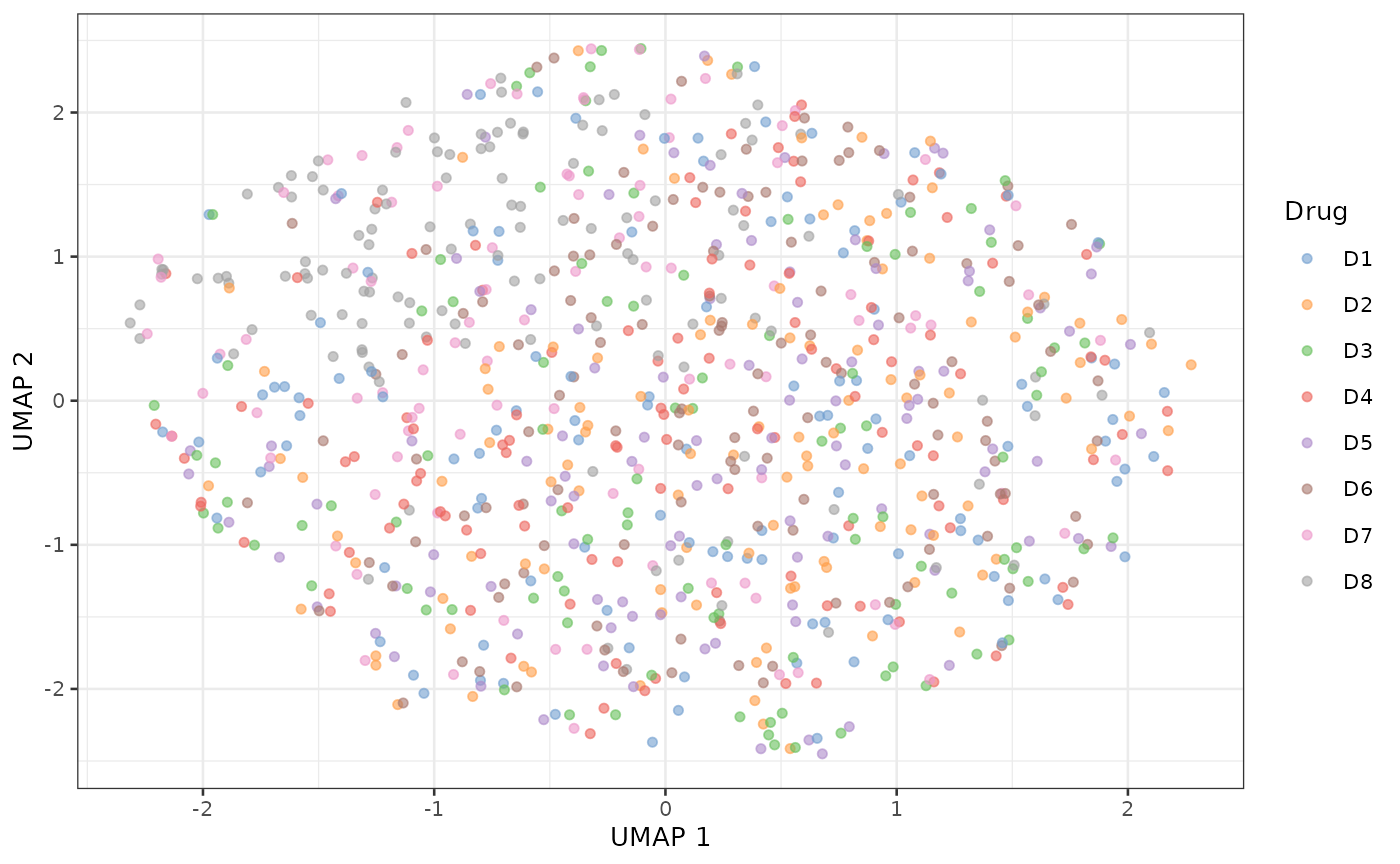
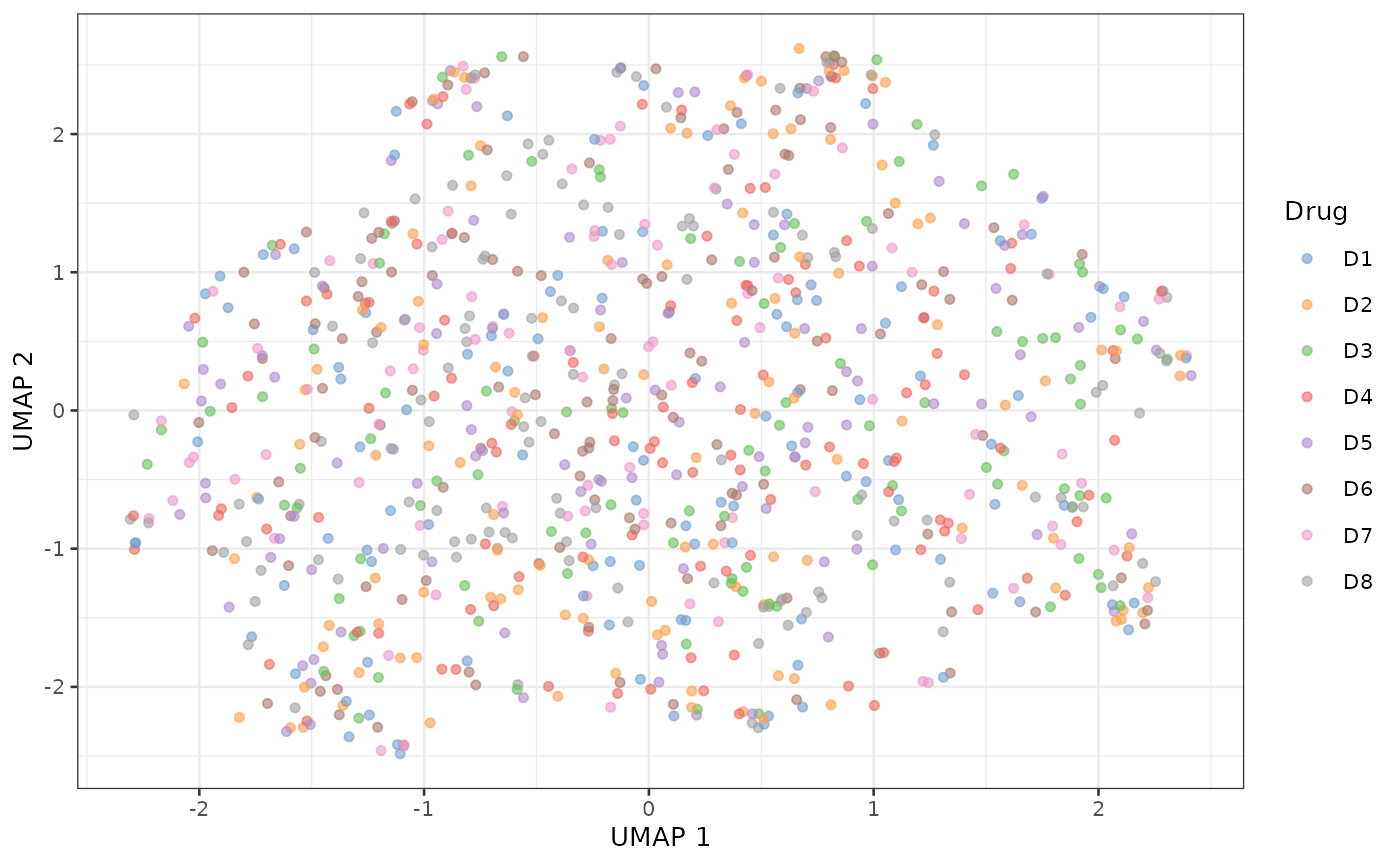
Deploying to gh-pages from @ ChristofSeiler/cellpaintr@51d60892bdf07ef285071fab969bb27a7db065ef 🚀

diff --git a/reference/transformScale.html b/reference/transformScale.html
@@ -1,0 +1,94 @@
+<!DOCTYPE html>
+<!-- Generated by pkgdown: do not edit by hand --><html lang="en"><head><meta http-equiv="Content-Type" content="text/html; charset=UTF-8"><meta charset="utf-8"><meta http-equiv="X-UA-Compatible" content="IE=edge"><meta name="viewport" content="width=device-width, initial-scale=1, shrink-to-fit=no"><title>Transform, center, and scale features — transformScale • cellpaintr</title><script src="../deps/jquery-3.6.0/jquery-3.6.0.min.js"></script><meta name="viewport" content="width=device-width, initial-scale=1, shrink-to-fit=no"><link href="../deps/bootstrap-5.3.8/bootstrap.min.css" rel="stylesheet"><script src="../deps/bootstrap-5.3.8/bootstrap.bundle.min.js"></script><link href="../deps/font-awesome-6.5.2/css/all.min.css" rel="stylesheet"><link href="../deps/font-awesome-6.5.2/css/v4-shims.min.css" rel="stylesheet"><script src="../deps/headroom-0.11.0/headroom.min.js"></script><script src="../deps/headroom-0.11.0/jQuery.headroom.min.js"></script><script src="../deps/bootstrap-toc-1.0.1/bootstrap-toc.min.js"></script><script src="../deps/clipboard.js-2.0.11/clipboard.min.js"></script><script src="../deps/search-1.0.0/autocomplete.jquery.min.js"></script><script src="../deps/search-1.0.0/fuse.min.js"></script><script src="../deps/search-1.0.0/mark.min.js"></script><!-- pkgdown --><script src="../pkgdown.js"></script><meta property="og:title" content="Transform, center, and scale features — transformScale"><meta name="description" content="Transform, center, and scale features"><meta property="og:description" content="Transform, center, and scale features"></head><body>
+    <a href="#main" class="visually-hidden-focusable">Skip to contents</a>
+
+
+    <nav class="navbar navbar-expand-lg fixed-top bg-light" data-bs-theme="light" aria-label="Site navigation"><div class="container">
+
+    <a class="navbar-brand me-2" href="../index.html">cellpaintr</a>
+
+    <small class="nav-text text-muted me-auto" data-bs-toggle="tooltip" data-bs-placement="bottom" title="">0.99.0</small>
+
+
+    <button class="navbar-toggler" type="button" data-bs-toggle="collapse" data-bs-target="#navbar" aria-controls="navbar" aria-expanded="false" aria-label="Toggle navigation">
+      <span class="navbar-toggler-icon"></span>
+    </button>
+
+    <div id="navbar" class="collapse navbar-collapse ms-3">
+      <ul class="navbar-nav me-auto"><li class="active nav-item"><a class="nav-link" href="../reference/index.html">Reference</a></li>
+<li class="nav-item dropdown">
+  <button class="nav-link dropdown-toggle" type="button" id="dropdown-articles" data-bs-toggle="dropdown" aria-expanded="false" aria-haspopup="true">Articles</button>
+  <ul class="dropdown-menu" aria-labelledby="dropdown-articles"><li><a class="dropdown-item" href="../articles/cellpaintr-vignette.html">cellpaintr Vignette</a></li>
+  </ul></li>
+<li class="nav-item"><a class="nav-link" href="../news/index.html">Changelog</a></li>
+      </ul><ul class="navbar-nav"><li class="nav-item"><form class="form-inline" role="search">
+ <input class="form-control" type="search" name="search-input" id="search-input" autocomplete="off" aria-label="Search site" placeholder="Search for" data-search-index="../search.json"></form></li>
+<li class="nav-item"><a class="external-link nav-link" href="https://github.com/ChristofSeiler/cellpaintr/" aria-label="GitHub"><span class="fa fab fa-github fa-lg"></span></a></li>
+      </ul></div>
+
+
+  </div>
+</nav><div class="container template-reference-topic">
+<div class="row">
+  <main id="main" class="col-md-9"><div class="page-header">
+
+      <h1>Transform, center, and scale features</h1>
+      <small class="dont-index">Source: <a href="https://github.com/ChristofSeiler/cellpaintr/blob/main/R/cellpaintr.R" class="external-link"><code>R/cellpaintr.R</code></a></small>
+      <div class="d-none name"><code>transformScale.Rd</code></div>
+    </div>
+
+    <div class="ref-description section level2">
+    <p>Transform, center, and scale features</p>
+    </div>
+
+    <div class="section level2">
+    <h2 id="ref-usage">Usage<a class="anchor" aria-label="anchor" href="#ref-usage"></a></h2>
+    <div class="sourceCode"><pre class="sourceCode r"><code><span><span class="fu">transformScale</span><span class="op">(</span><span class="va">sce</span>, robust <span class="op">=</span> <span class="cn">FALSE</span><span class="op">)</span></span></code></pre></div>
+    </div>
+
+    <div class="section level2">
+    <h2 id="arguments">Arguments<a class="anchor" aria-label="anchor" href="#arguments"></a></h2>
+
+
+<dl><dt id="arg-sce">sce<a class="anchor" aria-label="anchor" href="#arg-sce"></a></dt>
+<dd><p><code><a href="https://rdrr.io/pkg/SingleCellExperiment/man/SingleCellExperiment.html" class="external-link">SingleCellExperiment</a></code> object</p></dd>
+
+
+<dt id="arg-robust">robust<a class="anchor" aria-label="anchor" href="#arg-robust"></a></dt>
+<dd><p>If true robust z-score, otherwise standard z-score</p></dd>
+
+</dl></div>
+    <div class="section level2">
+    <h2 id="value">Value<a class="anchor" aria-label="anchor" href="#value"></a></h2>
+    <p><code><a href="https://rdrr.io/pkg/SingleCellExperiment/man/SingleCellExperiment.html" class="external-link">SingleCellExperiment</a></code> object</p>
+    </div>
+
+    <div class="section level2">
+    <h2 id="ref-examples">Examples<a class="anchor" aria-label="anchor" href="#ref-examples"></a></h2>
+    <div class="sourceCode"><pre class="sourceCode r"><code><span class="r-in"><span><span class="fu"><a href="https://rdrr.io/r/base/Random.html" class="external-link">set.seed</a></span><span class="op">(</span><span class="fl">23</span><span class="op">)</span></span></span>
+<span class="r-in"><span><span class="va">cell_file</span> <span class="op">&lt;-</span> <span class="fu"><a href="generate_data.html">generate_data</a></span><span class="op">(</span><span class="op">)</span></span></span>
+<span class="r-in"><span><span class="va">sce</span> <span class="op">&lt;-</span> <span class="fu"><a href="loadData.html">loadData</a></span><span class="op">(</span><span class="va">cell_file</span><span class="op">)</span></span></span>
+<span class="r-in"><span><span class="va">sce</span> <span class="op">&lt;-</span> <span class="fu">transformScale</span><span class="op">(</span><span class="va">sce</span><span class="op">)</span></span></span>
+<span class="r-in"><span></span></span>
+</code></pre></div>
+    </div>
+  </main><aside class="col-md-3"><nav id="toc" aria-label="Table of contents"><h2>On this page</h2>
+    </nav></aside></div>
+
+
+    <footer><div class="pkgdown-footer-left">
+  <p>Developed by Christof Seiler, European League Against Rheumatism, Swiss National Science Foundation.</p>
+</div>
+
+<div class="pkgdown-footer-right">
+  <p>Site built with <a href="https://pkgdown.r-lib.org/" class="external-link">pkgdown</a> 2.2.1.</p>
+</div>
+
+    </footer></div>
+
+
+
+
+
+  </body></html>
+

diff --git a/articles/cellpaintr-vignette.html b/articles/cellpaintr-vignette.html
@@ -72,7 +72,7 @@ Ospelt</h4>
             <address class="author_afil">
       Center of Experimental Rheumatology, Department of Rheumatology,
 University Hospital Zurich, University of Zurich,
-Switzerland<br><h4 data-toc-skip class="date">2026-07-13</h4>
+Switzerland<br><h4 data-toc-skip class="date">2026-08-14</h4>
       
       <small class="dont-index">Source: <a href="https://github.com/ChristofSeiler/cellpaintr/blob/main/vignettes/cellpaintr-vignette.Rmd" class="external-link"><code>vignettes/cellpaintr-vignette.Rmd</code></a></small>
       <div class="d-none name"><code>cellpaintr-vignette.Rmd</code></div>
@@ -160,7 +160,7 @@ with single-cell RNA sequencing workflows.</p>
 <span><span class="va">sce</span> <span class="op">&lt;-</span> <span class="fu"><a href="../reference/removeZeroInflation.html">removeZeroInflation</a></span><span class="op">(</span><span class="va">sce</span><span class="op">)</span></span></code></pre></div>
 <p>Transform non-negatives features and scale all features.</p>
 <div class="sourceCode" id="cb6"><pre class="downlit sourceCode r">
-<code class="sourceCode R"><span><span class="va">sce</span> <span class="op">&lt;-</span> <span class="fu"><a href="../reference/transformLogScale.html">transformLogScale</a></span><span class="op">(</span><span class="va">sce</span>, robust <span class="op">=</span> <span class="cn">TRUE</span><span class="op">)</span></span></code></pre></div>
+<code class="sourceCode R"><span><span class="va">sce</span> <span class="op">&lt;-</span> <span class="fu"><a href="../reference/transformScale.html">transformScale</a></span><span class="op">(</span><span class="va">sce</span>, robust <span class="op">=</span> <span class="cn">TRUE</span><span class="op">)</span></span></code></pre></div>
 </div>
 <div class="section level3">
 <h3 id="unsupervised-analysis">Unsupervised Analysis<a class="anchor" aria-label="anchor" href="#unsupervised-analysis"></a>
@@ -332,7 +332,7 @@ pseudo-bulk features.</p>
 <span><span class="co">## [19] bit_4.6.0           xfun_0.60           cachem_1.1.0       </span></span>
 <span><span class="co">## [22] beachmat_2.26.0     jsonlite_2.0.0      DelayedArray_0.36.1</span></span>
 <span><span class="co">## [25] BiocParallel_1.44.0 irlba_2.3.7         parallel_4.5.3     </span></span>
-<span><span class="co">## [28] R6_2.6.1            bslib_0.11.0        stringi_1.8.7      </span></span>
+<span><span class="co">## [28] R6_2.6.1            bslib_0.12.0        stringi_1.8.9      </span></span>
 <span><span class="co">## [31] rsample_1.3.2       RColorBrewer_1.1-3  ranger_0.18.0      </span></span>
 <span><span class="co">## [34] parallelly_1.48.0   jquerylib_0.1.4     Rcpp_1.1.2         </span></span>
 <span><span class="co">## [37] bookdown_0.47       knitr_1.51          FNN_1.1.4.1        </span></span>
@@ -340,7 +340,7 @@ pseudo-bulk features.</p>
 <span><span class="co">## [43] abind_1.4-8         yaml_2.3.12         viridis_0.6.5      </span></span>
 <span><span class="co">## [46] codetools_0.2-20    listenv_1.0.0       lattice_0.22-9     </span></span>
 <span><span class="co">## [49] tibble_3.3.1        withr_3.0.3         S7_0.2.2           </span></span>
-<span><span class="co">## [52] evaluate_1.0.5      future_1.70.0       desc_1.4.3         </span></span>
+<span><span class="co">## [52] evaluate_1.0.5      future_1.75.0       desc_1.4.3         </span></span>
 <span><span class="co">## [55] pillar_1.11.1       BiocManager_1.30.27 renv_1.1.5         </span></span>
 <span><span class="co">## [58] vroom_1.7.1         hms_1.1.4           scales_1.4.0       </span></span>
 <span><span class="co">## [61] globals_0.19.1      glue_1.8.1          tools_4.5.3        </span></span>

diff --git a/reference/calculateStats.html b/reference/calculateStats.html
@@ -79,7 +79,7 @@ over a list of SingleCellExperiment objects</p>
     <div class="sourceCode"><pre class="sourceCode r"><code><span class="r-in"><span><span class="fu"><a href="https://rdrr.io/r/base/Random.html" class="external-link">set.seed</a></span><span class="op">(</span><span class="fl">23</span><span class="op">)</span></span></span>
 <span class="r-in"><span><span class="va">cell_file</span> <span class="op">&lt;-</span> <span class="fu"><a href="generate_data.html">generate_data</a></span><span class="op">(</span><span class="op">)</span></span></span>
 <span class="r-in"><span><span class="va">sce</span> <span class="op">&lt;-</span> <span class="fu"><a href="loadData.html">loadData</a></span><span class="op">(</span><span class="va">cell_file</span><span class="op">)</span></span></span>
-<span class="r-in"><span><span class="va">sce</span> <span class="op">&lt;-</span> <span class="fu"><a href="transformLogScale.html">transformLogScale</a></span><span class="op">(</span><span class="va">sce</span><span class="op">)</span></span></span>
+<span class="r-in"><span><span class="va">sce</span> <span class="op">&lt;-</span> <span class="fu"><a href="transformScale.html">transformScale</a></span><span class="op">(</span><span class="va">sce</span><span class="op">)</span></span></span>
 <span class="r-in"><span></span></span>
 <span class="r-in"><span><span class="va">sce</span><span class="op">$</span><span class="va">Drug</span> <span class="op">&lt;-</span> <span class="fu"><a href="https://rdrr.io/r/base/factor.html" class="external-link">as.factor</a></span><span class="op">(</span><span class="va">sce</span><span class="op">$</span><span class="va">Drug</span><span class="op">)</span></span></span>
 <span class="r-in"><span><span class="va">sce</span><span class="op">$</span><span class="va">Drug</span> <span class="op">&lt;-</span> <span class="fu"><a href="https://rdrr.io/r/stats/relevel.html" class="external-link">relevel</a></span><span class="op">(</span><span class="va">sce</span><span class="op">$</span><span class="va">Drug</span>, ref <span class="op">=</span> <span class="st">"D1"</span><span class="op">)</span></span></span>
@@ -95,10 +95,10 @@ over a list of SingleCellExperiment objects</p>
 <span class="r-in"><span></span></span>
 <span class="r-in"><span><span class="fu">calculateStats</span><span class="op">(</span><span class="va">sce_single</span>, target <span class="op">=</span> <span class="st">"Drug"</span>, group <span class="op">=</span> <span class="st">"Patient"</span><span class="op">)</span></span></span>
 <span class="r-out co"><span class="r-pr">#&gt;</span>   Target   Feature       pvalue log2FoldChange</span>
-<span class="r-out co"><span class="r-pr">#&gt;</span> 1     D7       all 0.0008479434     0.36380804</span>
-<span class="r-out co"><span class="r-pr">#&gt;</span> 2     D7 AreaShape 0.8285342602    -0.04039513</span>
-<span class="r-out co"><span class="r-pr">#&gt;</span> 3     D7 Intensity 0.6854724293    -0.03239716</span>
-<span class="r-out co"><span class="r-pr">#&gt;</span> 4     D7   Texture 0.0002283086     0.54088688</span>
+<span class="r-out co"><span class="r-pr">#&gt;</span> 1     D7       all 0.0005141139     0.35479769</span>
+<span class="r-out co"><span class="r-pr">#&gt;</span> 2     D7 AreaShape 0.8187338398    -0.03537504</span>
+<span class="r-out co"><span class="r-pr">#&gt;</span> 3     D7 Intensity 0.6461917724    -0.02411133</span>
+<span class="r-out co"><span class="r-pr">#&gt;</span> 4     D7   Texture 0.0001644491     0.53511545</span>
 <span class="r-in"><span></span></span>
 </code></pre></div>
     </div>

diff --git a/reference/plotPCACor.html b/reference/plotPCACor.html
@@ -86,7 +86,7 @@
     <div class="sourceCode"><pre class="sourceCode r"><code><span class="r-in"><span><span class="fu"><a href="https://rdrr.io/r/base/Random.html" class="external-link">set.seed</a></span><span class="op">(</span><span class="fl">23</span><span class="op">)</span></span></span>
 <span class="r-in"><span><span class="va">cell_file</span> <span class="op">&lt;-</span> <span class="fu"><a href="generate_data.html">generate_data</a></span><span class="op">(</span><span class="op">)</span></span></span>
 <span class="r-in"><span><span class="va">sce</span> <span class="op">&lt;-</span> <span class="fu"><a href="loadData.html">loadData</a></span><span class="op">(</span><span class="va">cell_file</span><span class="op">)</span></span></span>
-<span class="r-in"><span><span class="va">sce</span> <span class="op">&lt;-</span> <span class="fu"><a href="transformLogScale.html">transformLogScale</a></span><span class="op">(</span><span class="va">sce</span>, robust <span class="op">=</span> <span class="cn">TRUE</span><span class="op">)</span></span></span>
+<span class="r-in"><span><span class="va">sce</span> <span class="op">&lt;-</span> <span class="fu"><a href="transformScale.html">transformScale</a></span><span class="op">(</span><span class="va">sce</span>, robust <span class="op">=</span> <span class="cn">TRUE</span><span class="op">)</span></span></span>
 <span class="r-in"><span><span class="va">sce</span> <span class="op">&lt;-</span> <span class="fu">scater</span><span class="fu">::</span><span class="fu"><a href="https://rdrr.io/pkg/BiocSingular/man/runPCA.html" class="external-link">runPCA</a></span><span class="op">(</span><span class="va">sce</span>, exprs_values <span class="op">=</span> <span class="st">"tfmfeatures"</span>, ncomponents <span class="op">=</span> <span class="fl">10</span><span class="op">)</span></span></span>
 <span class="r-in"><span><span class="fu">plotPCACor</span><span class="op">(</span><span class="va">sce</span>, filter_by <span class="op">=</span> <span class="fl">1</span><span class="op">)</span></span></span>
 <span class="r-plt img"><img src="plotPCACor-1.png" alt="" width="700" height="433"></span>

diff --git a/reference/volcanoPlot.html b/reference/volcanoPlot.html
@@ -93,7 +93,7 @@ will be drawn at fc_cutoff.</p></dd>
     <div class="sourceCode"><pre class="sourceCode r"><code><span class="r-in"><span><span class="fu"><a href="https://rdrr.io/r/base/Random.html" class="external-link">set.seed</a></span><span class="op">(</span><span class="fl">23</span><span class="op">)</span></span></span>
 <span class="r-in"><span><span class="va">cell_file</span> <span class="op">&lt;-</span> <span class="fu"><a href="generate_data.html">generate_data</a></span><span class="op">(</span><span class="op">)</span></span></span>
 <span class="r-in"><span><span class="va">sce</span> <span class="op">&lt;-</span> <span class="fu"><a href="loadData.html">loadData</a></span><span class="op">(</span><span class="va">cell_file</span><span class="op">)</span></span></span>
-<span class="r-in"><span><span class="va">sce</span> <span class="op">&lt;-</span> <span class="fu"><a href="transformLogScale.html">transformLogScale</a></span><span class="op">(</span><span class="va">sce</span><span class="op">)</span></span></span>
+<span class="r-in"><span><span class="va">sce</span> <span class="op">&lt;-</span> <span class="fu"><a href="transformScale.html">transformScale</a></span><span class="op">(</span><span class="va">sce</span><span class="op">)</span></span></span>
 <span class="r-in"><span></span></span>
 <span class="r-in"><span><span class="va">sce</span><span class="op">$</span><span class="va">Drug</span> <span class="op">&lt;-</span> <span class="fu"><a href="https://rdrr.io/r/base/factor.html" class="external-link">as.factor</a></span><span class="op">(</span><span class="va">sce</span><span class="op">$</span><span class="va">Drug</span><span class="op">)</span></span></span>
 <span class="r-in"><span><span class="va">sce</span><span class="op">$</span><span class="va">Drug</span> <span class="op">&lt;-</span> <span class="fu"><a href="https://rdrr.io/r/stats/relevel.html" class="external-link">relevel</a></span><span class="op">(</span><span class="va">sce</span><span class="op">$</span><span class="va">Drug</span>, ref <span class="op">=</span> <span class="st">"D1"</span><span class="op">)</span></span></span>

diff --git a/reference/predictLOO.html b/reference/predictLOO.html
@@ -111,7 +111,7 @@
     <div class="sourceCode"><pre class="sourceCode r"><code><span class="r-in"><span><span class="fu"><a href="https://rdrr.io/r/base/Random.html" class="external-link">set.seed</a></span><span class="op">(</span><span class="fl">23</span><span class="op">)</span></span></span>
 <span class="r-in"><span><span class="va">cell_file</span> <span class="op">&lt;-</span> <span class="fu"><a href="generate_data.html">generate_data</a></span><span class="op">(</span><span class="op">)</span></span></span>
 <span class="r-in"><span><span class="va">sce</span> <span class="op">&lt;-</span> <span class="fu"><a href="loadData.html">loadData</a></span><span class="op">(</span><span class="va">cell_file</span><span class="op">)</span></span></span>
-<span class="r-in"><span><span class="va">sce</span> <span class="op">&lt;-</span> <span class="fu"><a href="transformLogScale.html">transformLogScale</a></span><span class="op">(</span><span class="va">sce</span><span class="op">)</span></span></span>
+<span class="r-in"><span><span class="va">sce</span> <span class="op">&lt;-</span> <span class="fu"><a href="transformScale.html">transformScale</a></span><span class="op">(</span><span class="va">sce</span><span class="op">)</span></span></span>
 <span class="r-in"><span></span></span>
 <span class="r-in"><span><span class="va">sce</span><span class="op">$</span><span class="va">Drug</span> <span class="op">&lt;-</span> <span class="fu"><a href="https://rdrr.io/r/base/factor.html" class="external-link">as.factor</a></span><span class="op">(</span><span class="va">sce</span><span class="op">$</span><span class="va">Drug</span><span class="op">)</span></span></span>
 <span class="r-in"><span><span class="va">sce</span><span class="op">$</span><span class="va">Drug</span> <span class="op">&lt;-</span> <span class="fu"><a href="https://rdrr.io/r/stats/relevel.html" class="external-link">relevel</a></span><span class="op">(</span><span class="va">sce</span><span class="op">$</span><span class="va">Drug</span>, ref <span class="op">=</span> <span class="st">"D1"</span><span class="op">)</span></span></span>

diff --git a/reference/plotAUC.html b/reference/plotAUC.html
@@ -76,7 +76,7 @@
     <div class="sourceCode"><pre class="sourceCode r"><code><span class="r-in"><span><span class="fu"><a href="https://rdrr.io/r/base/Random.html" class="external-link">set.seed</a></span><span class="op">(</span><span class="fl">23</span><span class="op">)</span></span></span>
 <span class="r-in"><span><span class="va">cell_file</span> <span class="op">&lt;-</span> <span class="fu"><a href="generate_data.html">generate_data</a></span><span class="op">(</span><span class="op">)</span></span></span>
 <span class="r-in"><span><span class="va">sce</span> <span class="op">&lt;-</span> <span class="fu"><a href="loadData.html">loadData</a></span><span class="op">(</span><span class="va">cell_file</span><span class="op">)</span></span></span>
-<span class="r-in"><span><span class="va">sce</span> <span class="op">&lt;-</span> <span class="fu"><a href="transformLogScale.html">transformLogScale</a></span><span class="op">(</span><span class="va">sce</span><span class="op">)</span></span></span>
+<span class="r-in"><span><span class="va">sce</span> <span class="op">&lt;-</span> <span class="fu"><a href="transformScale.html">transformScale</a></span><span class="op">(</span><span class="va">sce</span><span class="op">)</span></span></span>
 <span class="r-in"><span></span></span>
 <span class="r-in"><span><span class="va">sce</span><span class="op">$</span><span class="va">Drug</span> <span class="op">&lt;-</span> <span class="fu"><a href="https://rdrr.io/r/base/factor.html" class="external-link">as.factor</a></span><span class="op">(</span><span class="va">sce</span><span class="op">$</span><span class="va">Drug</span><span class="op">)</span></span></span>
 <span class="r-in"><span><span class="va">sce</span><span class="op">$</span><span class="va">Drug</span> <span class="op">&lt;-</span> <span class="fu"><a href="https://rdrr.io/r/stats/relevel.html" class="external-link">relevel</a></span><span class="op">(</span><span class="va">sce</span><span class="op">$</span><span class="va">Drug</span>, ref <span class="op">=</span> <span class="st">"D1"</span><span class="op">)</span></span></span>

diff --git a/reference/plotLOO.html b/reference/plotLOO.html
@@ -76,7 +76,7 @@
     <div class="sourceCode"><pre class="sourceCode r"><code><span class="r-in"><span><span class="fu"><a href="https://rdrr.io/r/base/Random.html" class="external-link">set.seed</a></span><span class="op">(</span><span class="fl">23</span><span class="op">)</span></span></span>
 <span class="r-in"><span><span class="va">cell_file</span> <span class="op">&lt;-</span> <span class="fu"><a href="generate_data.html">generate_data</a></span><span class="op">(</span><span class="op">)</span></span></span>
 <span class="r-in"><span><span class="va">sce</span> <span class="op">&lt;-</span> <span class="fu"><a href="loadData.html">loadData</a></span><span class="op">(</span><span class="va">cell_file</span><span class="op">)</span></span></span>
-<span class="r-in"><span><span class="va">sce</span> <span class="op">&lt;-</span> <span class="fu"><a href="transformLogScale.html">transformLogScale</a></span><span class="op">(</span><span class="va">sce</span><span class="op">)</span></span></span>
+<span class="r-in"><span><span class="va">sce</span> <span class="op">&lt;-</span> <span class="fu"><a href="transformScale.html">transformScale</a></span><span class="op">(</span><span class="va">sce</span><span class="op">)</span></span></span>
 <span class="r-in"><span></span></span>
 <span class="r-in"><span><span class="va">sce</span><span class="op">$</span><span class="va">Drug</span> <span class="op">&lt;-</span> <span class="fu"><a href="https://rdrr.io/r/base/factor.html" class="external-link">as.factor</a></span><span class="op">(</span><span class="va">sce</span><span class="op">$</span><span class="va">Drug</span><span class="op">)</span></span></span>
 <span class="r-in"><span><span class="va">sce</span><span class="op">$</span><span class="va">Drug</span> <span class="op">&lt;-</span> <span class="fu"><a href="https://rdrr.io/r/stats/relevel.html" class="external-link">relevel</a></span><span class="op">(</span><span class="va">sce</span><span class="op">$</span><span class="va">Drug</span>, ref <span class="op">=</span> <span class="st">"D1"</span><span class="op">)</span></span></span>

diff --git a/reference/plotROC.html b/reference/plotROC.html
@@ -76,7 +76,7 @@
     <div class="sourceCode"><pre class="sourceCode r"><code><span class="r-in"><span><span class="fu"><a href="https://rdrr.io/r/base/Random.html" class="external-link">set.seed</a></span><span class="op">(</span><span class="fl">23</span><span class="op">)</span></span></span>
 <span class="r-in"><span><span class="va">cell_file</span> <span class="op">&lt;-</span> <span class="fu"><a href="generate_data.html">generate_data</a></span><span class="op">(</span><span class="op">)</span></span></span>
 <span class="r-in"><span><span class="va">sce</span> <span class="op">&lt;-</span> <span class="fu"><a href="loadData.html">loadData</a></span><span class="op">(</span><span class="va">cell_file</span><span class="op">)</span></span></span>
-<span class="r-in"><span><span class="va">sce</span> <span class="op">&lt;-</span> <span class="fu"><a href="transformLogScale.html">transformLogScale</a></span><span class="op">(</span><span class="va">sce</span><span class="op">)</span></span></span>
+<span class="r-in"><span><span class="va">sce</span> <span class="op">&lt;-</span> <span class="fu"><a href="transformScale.html">transformScale</a></span><span class="op">(</span><span class="va">sce</span><span class="op">)</span></span></span>
 <span class="r-in"><span></span></span>
 <span class="r-in"><span><span class="va">sce</span><span class="op">$</span><span class="va">Drug</span> <span class="op">&lt;-</span> <span class="fu"><a href="https://rdrr.io/r/base/factor.html" class="external-link">as.factor</a></span><span class="op">(</span><span class="va">sce</span><span class="op">$</span><span class="va">Drug</span><span class="op">)</span></span></span>
 <span class="r-in"><span><span class="va">sce</span><span class="op">$</span><span class="va">Drug</span> <span class="op">&lt;-</span> <span class="fu"><a href="https://rdrr.io/r/stats/relevel.html" class="external-link">relevel</a></span><span class="op">(</span><span class="va">sce</span><span class="op">$</span><span class="va">Drug</span>, ref <span class="op">=</span> <span class="st">"D1"</span><span class="op">)</span></span></span>

diff --git a/reference/generate_data.html b/reference/generate_data.html
@@ -55,7 +55,7 @@
     <h2 id="ref-examples">Examples<a class="anchor" aria-label="anchor" href="#ref-examples"></a></h2>
     <div class="sourceCode"><pre class="sourceCode r"><code><span class="r-in"><span><span class="fu"><a href="https://rdrr.io/r/base/Random.html" class="external-link">set.seed</a></span><span class="op">(</span><span class="fl">23</span><span class="op">)</span></span></span>
 <span class="r-in"><span><span class="fu">generate_data</span><span class="op">(</span><span class="op">)</span></span></span>
-<span class="r-out co"><span class="r-pr">#&gt;</span> [1] "/tmp/RtmpjP3uus/file40fa7d07e01b.csv"</span>
+<span class="r-out co"><span class="r-pr">#&gt;</span> [1] "/tmp/Rtmp9g74t5/file41056452128f.csv"</span>
 <span class="r-in"><span></span></span>
 </code></pre></div>
     </div>

diff --git a/reference/index.html b/reference/index.html
@@ -152,10 +152,10 @@
 
         <dt>
 
-          <code><a href="transformLogScale.html">transformLogScale()</a></code>
+          <code><a href="transformScale.html">transformScale()</a></code>
 
         </dt>
-        <dd>Filter low variance features</dd>
+        <dd>Transform, center, and scale features</dd>
 
         <dt>
 

diff --git a/articles/cellpaintr-vignette.md b/articles/cellpaintr-vignette.md
@@ -90,7 +90,7 @@ Transform non-negatives features and scale all features.
 
 ``` r
 
-sce <- transformLogScale(sce, robust = TRUE)
+sce <- transformScale(sce, robust = TRUE)
 ```
 
 ### Unsupervised Analysis
@@ -317,7 +317,7 @@ sessionInfo()
     ## [19] bit_4.6.0           xfun_0.60           cachem_1.1.0       
     ## [22] beachmat_2.26.0     jsonlite_2.0.0      DelayedArray_0.36.1
     ## [25] BiocParallel_1.44.0 irlba_2.3.7         parallel_4.5.3     
-    ## [28] R6_2.6.1            bslib_0.11.0        stringi_1.8.7      
+    ## [28] R6_2.6.1            bslib_0.12.0        stringi_1.8.9      
     ## [31] rsample_1.3.2       RColorBrewer_1.1-3  ranger_0.18.0      
     ## [34] parallelly_1.48.0   jquerylib_0.1.4     Rcpp_1.1.2         
     ## [37] bookdown_0.47       knitr_1.51          FNN_1.1.4.1        
@@ -325,7 +325,7 @@ sessionInfo()
     ## [43] abind_1.4-8         yaml_2.3.12         viridis_0.6.5      
     ## [46] codetools_0.2-20    listenv_1.0.0       lattice_0.22-9     
     ## [49] tibble_3.3.1        withr_3.0.3         S7_0.2.2           
-    ## [52] evaluate_1.0.5      future_1.70.0       desc_1.4.3         
+    ## [52] evaluate_1.0.5      future_1.75.0       desc_1.4.3         
     ## [55] pillar_1.11.1       BiocManager_1.30.27 renv_1.1.5         
     ## [58] vroom_1.7.1         hms_1.1.4           scales_1.4.0       
     ## [61] globals_0.19.1      glue_1.8.1          tools_4.5.3        
